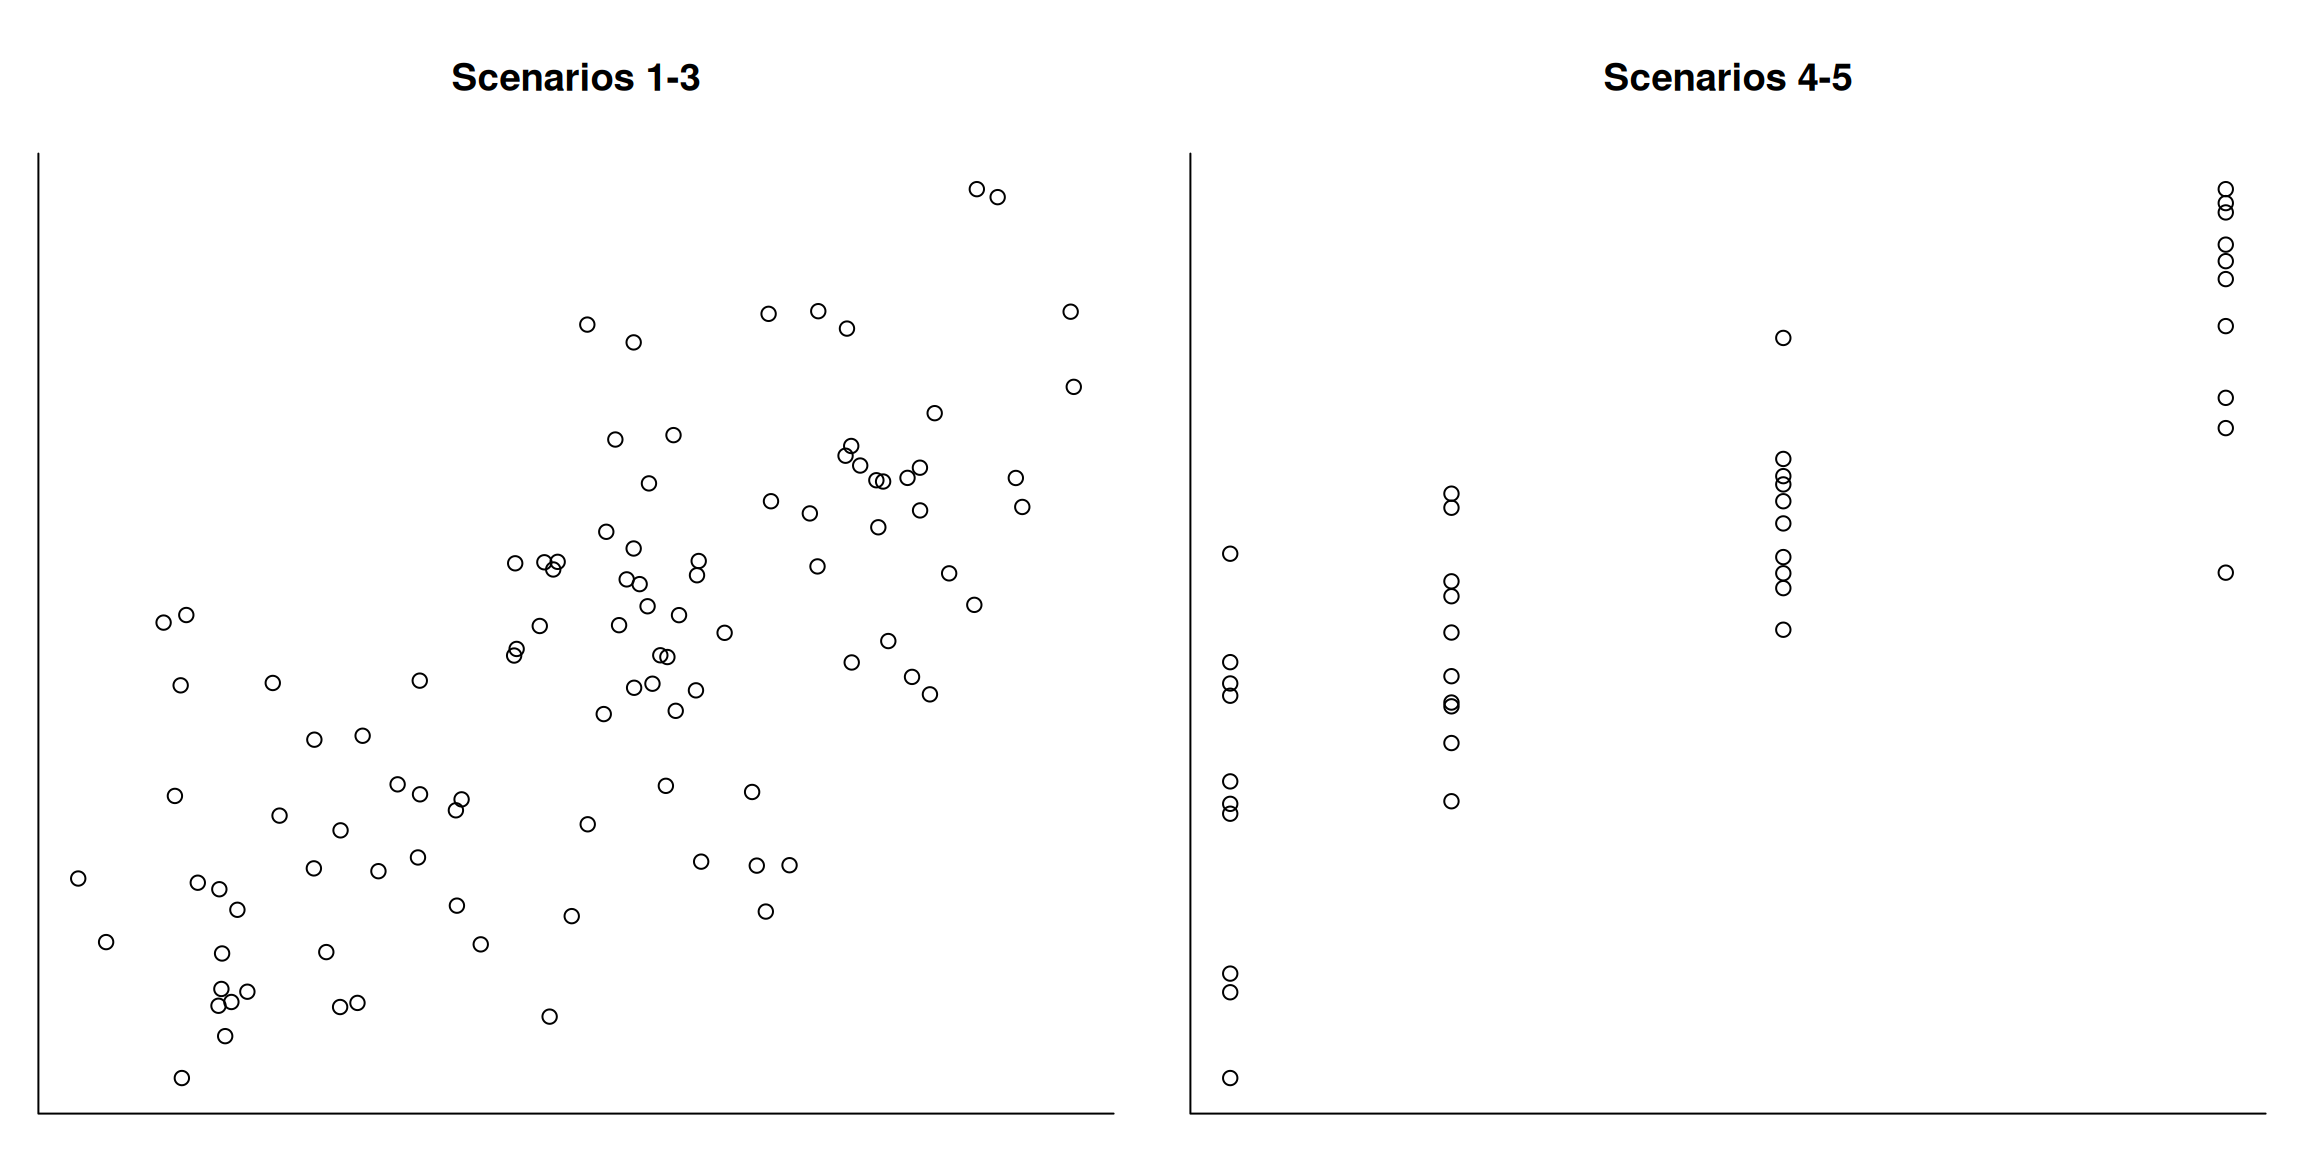
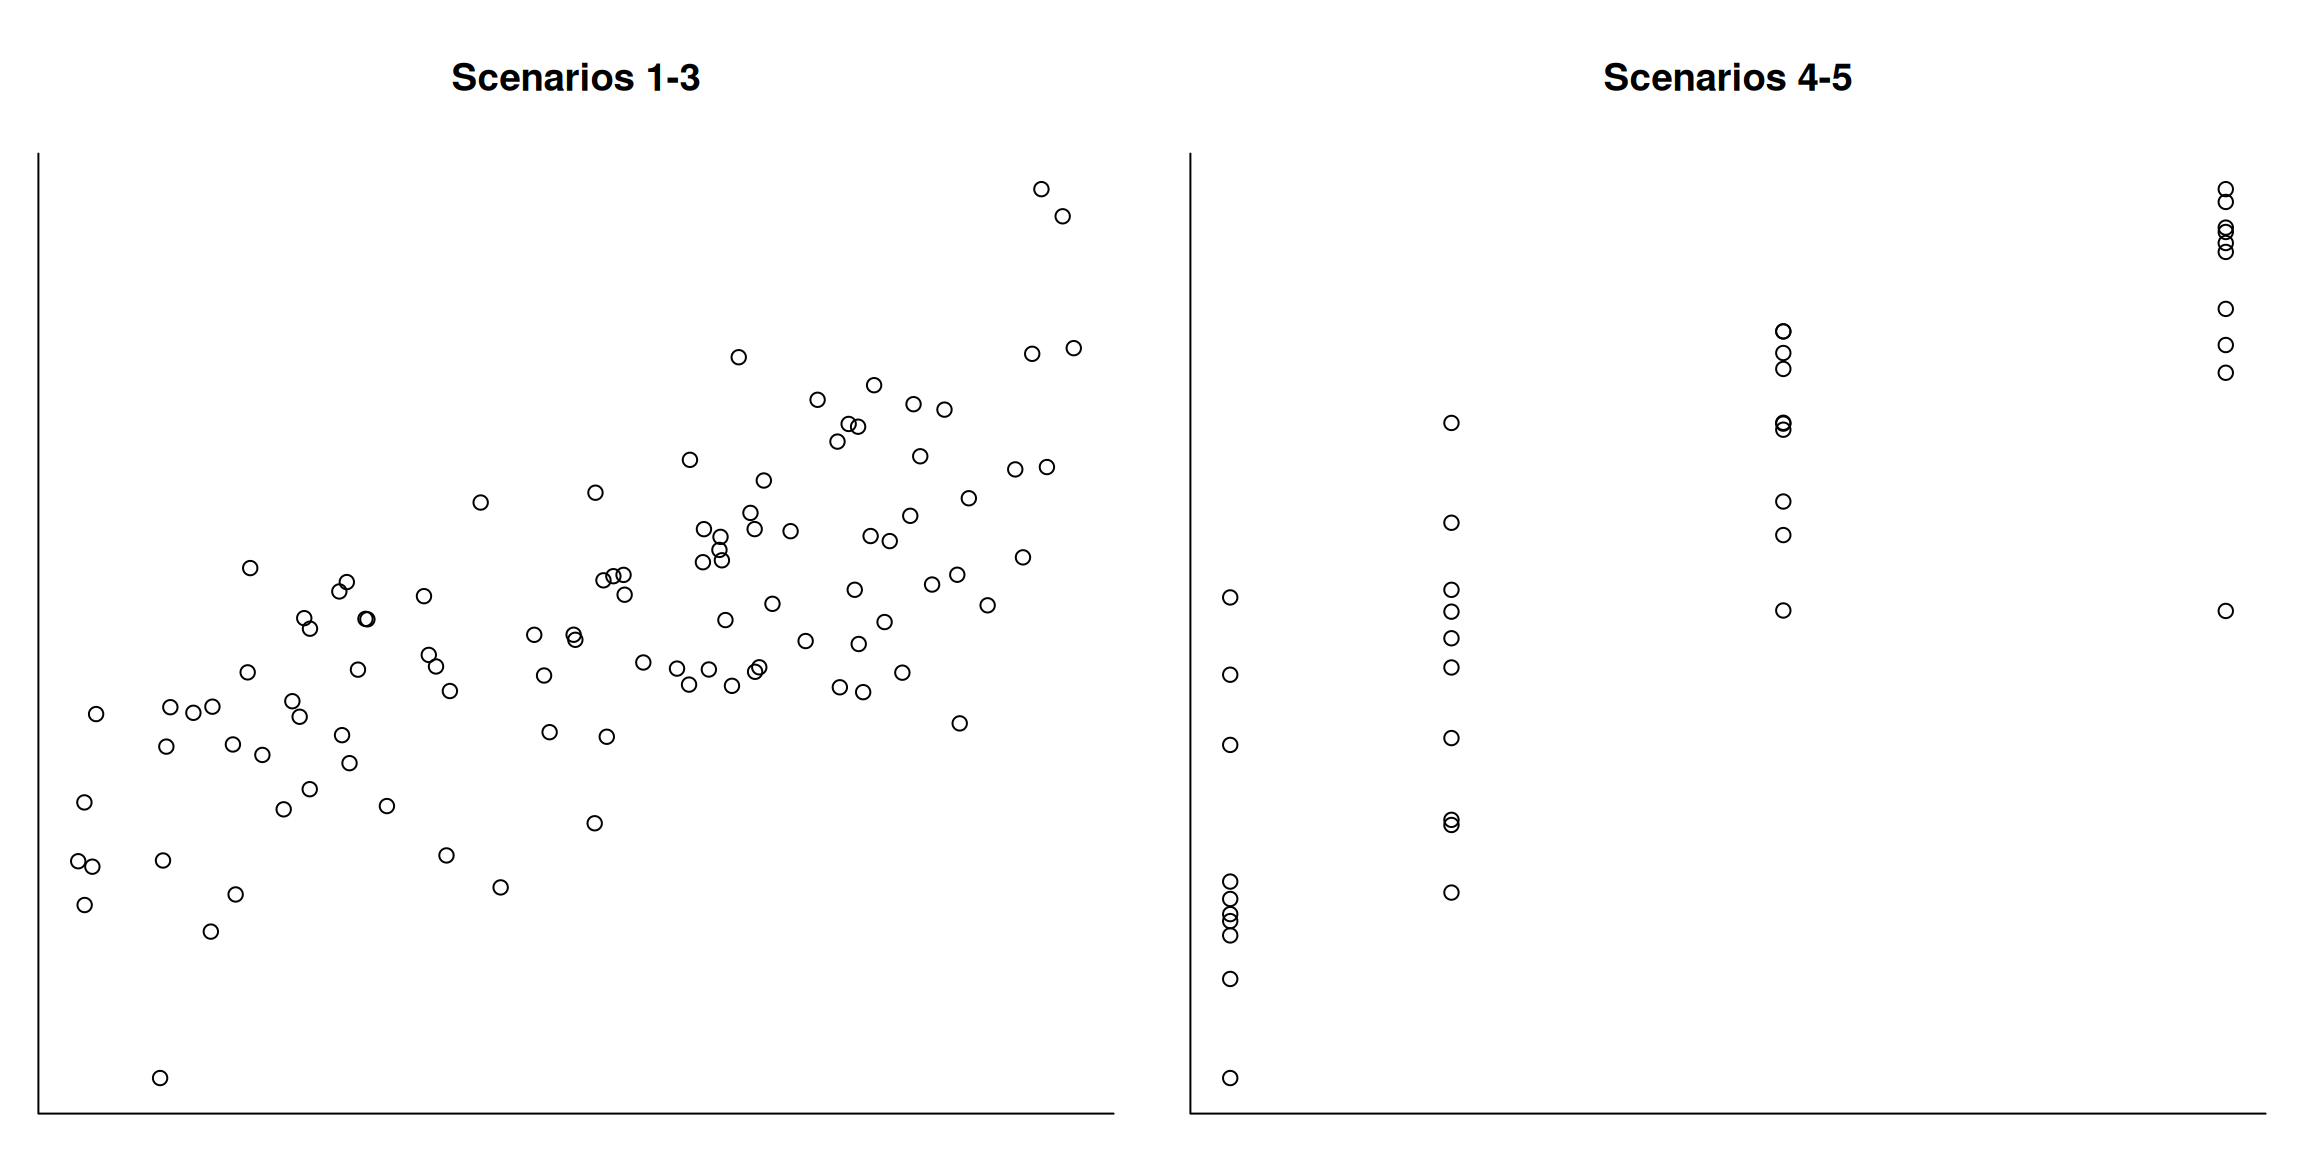
GitHub Actions commit.

diff --git a/syllabus.html b/syllabus.html
@@ -211,7 +211,6 @@ ul.task-list li input[type="checkbox"] {
   <li><a href="#r-studio-r-datahub" id="toc-r-studio-r-datahub" class="nav-link" data-scroll-target="#r-studio-r-datahub">R Studio / R Datahub</a></li>
   <li><a href="#bcourses" id="toc-bcourses" class="nav-link" data-scroll-target="#bcourses">Bcourses</a></li>
   <li><a href="#ed-discussion" id="toc-ed-discussion" class="nav-link" data-scroll-target="#ed-discussion">Ed Discussion</a></li>
-  <li><a href="#cbtf" id="toc-cbtf" class="nav-link" data-scroll-target="#cbtf">CBTF</a></li>
   <li><a href="#gradescope" id="toc-gradescope" class="nav-link" data-scroll-target="#gradescope">Gradescope</a></li>
   <li><a href="#flextensions" id="toc-flextensions" class="nav-link" data-scroll-target="#flextensions">Flextensions</a></li>
   </ul></li>
@@ -393,7 +392,7 @@ ul.task-list li input[type="checkbox"] {
 <h3 class="anchored" data-anchor-id="exams">Exams</h3>
 <p>There will be one midterm exam and the final exam.</p>
 <ul>
-<li>The midterm exam will be a <strong>two hour</strong> exam which is <em>tentatively</em> scheduled to be held in the <strong>evening from 7-9 pm</strong> on <strong>Wednesday, October 12</strong> (Location TBD).</li>
+<li>The midterm exam will be a <strong>two hour</strong> exam which is <em>tentatively</em> scheduled to be held in the <strong>evening from 7-9 pm</strong> on <strong>Thursday, October 15</strong> (Location TBD).</li>
 <li>The final exam time and day are <strong>Monday, December 14, 11:30 am - 2:30 pm</strong>. If you do not take the final exam, you will <strong>not pass</strong> the class.</li>
 </ul>
 </section>
@@ -523,13 +522,9 @@ ul.task-list li input[type="checkbox"] {
 <h3 class="anchored" data-anchor-id="ed-discussion">Ed Discussion</h3>
 <p>I have created a <a href="https://edstem.org/us/courses/100848/discussion">Ed discussion page</a> for this course, which you can access through the link in bCourses (so you will be logged in). This is an online forum to ask questions to fellow students and answer other students’ questions. The GSIs and I will have access to the forum and may endorse or occasionally answer questions but this is <em>primarily</em> a forum for students to help each other – if you need an instructor or GSI’s assistance please attend office hours. Extra credit of up to 0.5% on the final course score will be awarded to the five students who have responded to the most questions on Ed by the end of the semester (with reasonable attempts at answering the questions).</p>
 </section>
-<section id="cbtf" class="level3">
-<h3 class="anchored" data-anchor-id="cbtf">CBTF</h3>
-<p>This semester, you will be taking your quizzes in the Computer-Based Testing Facility in Moffit Library. In order to take the test, you will have to log into the course site using your <strong>Calnet</strong> ID. I will post a practice quiz so that you can get the hang of how to do the scheduling etc. Meanwhile, take a look at the page <a href="https://rtl.berkeley.edu/services-programs/computer-based-testing-facility-cbtf/cbtf-student-information/cbtf-getting-started">“CBTF Getting Started for Students”</a>.</p>
-</section>
 <section id="gradescope" class="level3">
 <h3 class="anchored" data-anchor-id="gradescope">Gradescope</h3>
-<p>Homework assignments, take-home exams, and regrade requests will be submitted through Gradescope, which you can also access through the link in bCourses (you should <strong>not</strong> add yourself to Gradescope, as the roster has already been uploaded). You should view your grades here, not bCourses.</p>
+<p>Homework assignments, and regrade requests will be submitted through Gradescope, which you can also access through the link in bCourses (you should <strong>not</strong> add yourself to Gradescope, as the roster has already been uploaded). You should view your grades here, not bCourses.</p>
 </section>
 <section id="flextensions" class="level3">
 <h3 class="anchored" data-anchor-id="flextensions">Flextensions</h3>

diff --git a/index.html b/index.html
@@ -321,7 +321,7 @@ window.Quarto = {
 <section id="announcements" class="level3">
 <h3 class="anchored" data-anchor-id="announcements">Announcements</h3>
 <p>Concurrent enrollment students interested in this class should attend the first class for information. No concurrent enrollment students will be added to the class until all Berkeley students on the waitlist have been given the opportunity to add, and no actions will be taken until after the first day of class. There is usually a good bit of movement in the first couple of weeks of the course.</p>
-<p>Concurrent enrollement students should fill out this [google form] (https://docs.google.com/forms/d/e/1FAIpQLSen4e_R3M4MadB8l67Ia6JIy1Lx3FCGCds-8RCJJZWBI2e6RA/viewform?usp=dialog) <strong>after the first day of class</strong> (it will not be taking responses until then).</p>
+<p>Concurrent enrollement students should fill out this <a href="https://docs.google.com/forms/d/e/1FAIpQLSen4e_R3M4MadB8l67Ia6JIy1Lx3FCGCds-8RCJJZWBI2e6RA/viewform?usp=dialog">google form</a> <strong>after the first class</strong> (it will not be taking responses until then).</p>
 <p>To ask to be added to bcourses, email Florica Constantine at florica@berkeley.edu (registered students and waitlist students are added automatically)</p>
 </section>
 </section>

diff --git a/staff.html b/staff.html
@@ -201,19 +201,6 @@ ul.task-list li input[type="checkbox"] {
 </header>
 
 
-<div class="callout callout-style-default callout-caution callout-titled">
-<div class="callout-header d-flex align-content-center">
-<div class="callout-icon-container">
-<i class="callout-icon"></i>
-</div>
-<div class="callout-title-container flex-fill">
-Caution
-</div>
-</div>
-<div class="callout-body-container callout-body">
-<p>Site and course are under construction. Do not contact any of the staff listed here (except for the Instructor) before the first day of class!</p>
-</div>
-</div>
 <p>Office hours are subject to change.</p>
 <hr>
 <div class="grid">
